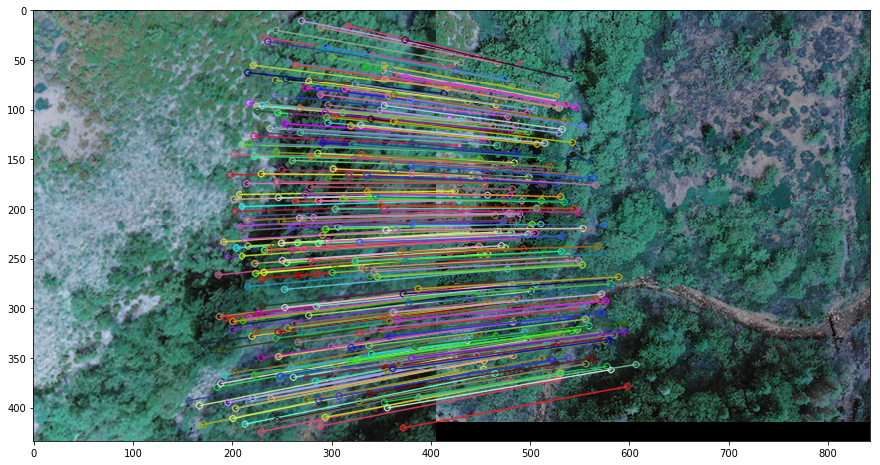
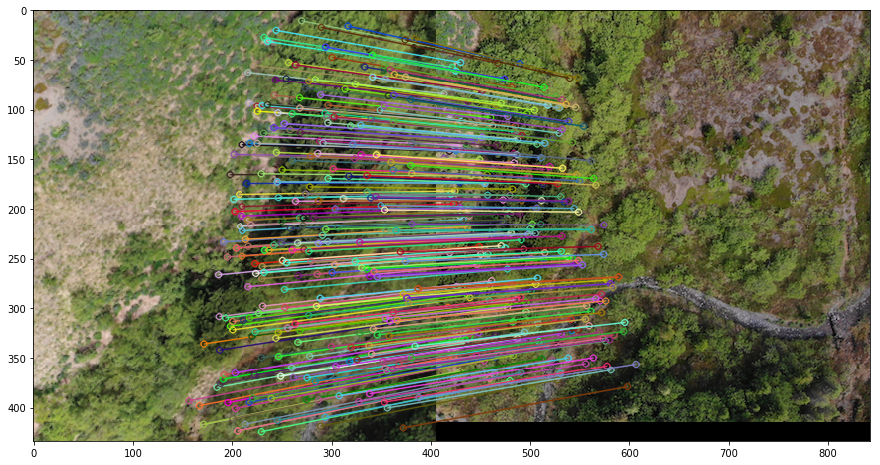
updated colors in image and image display

diff --git a/testscript2.py b/testscript2.py
@@ -27,14 +27,14 @@ from warp import warpImageBasic, warpImage
 
 def showImage(im, h, w):
     plt.figure(figsize = (h,w))
-    plt.imshow(im)
+    plt.imshow(cv2.cvtColor(im, cv2.COLOR_BGR2RGB))
     plt.show 
 
 #%% ===================== INITIAL IMAGE LOADING ===============================
 # read images from path
 # chance path and extention according to the images and type of images you want to test 
 images = []
-path = "testimages6"
+path = "final_images/simple_stitching_twisted"
 
 for f in os.listdir(path):
     ext = os.path.splitext(f)[1]
@@ -43,7 +43,10 @@ for f in os.listdir(path):
     images.append(cv2.imread(os.path.join(path,f)))
     
 image1 = images[0]
-image2 = images[1]
+image2 = images[3]
+
+showImage(image1, 8, 8)
+showImage(image2, 8, 8)
 
 #%% ===================== RESCALE OF IMAGES ===================================
 # =============================================================================
@@ -69,11 +72,13 @@ knnmatcher = cv2.BFMatcher(cv2.NORM_L2, crossCheck = False)
 raw = knnmatcher.knnMatch(descriptors0, descriptors1, 2)
 matches = []
 for m,n in raw:
-    if m.distance < n.distance * 0.7:
+    if m.distance < n.distance * 0.5:
         matches.append(m)
 src_pts = np.float32([keypoints0[m.queryIdx].pt for m in matches]).reshape(-1, 1, 2)
 dst_pts = np.float32([keypoints1[m.trainIdx].pt for m in matches]).reshape(-1, 1, 2)
 
+images_matches = cv2.drawMatches(image1,keypoints0,image2,keypoints1,matches, None, flags=2)
+showImage(images_matches, 15, 10)
 
 #%% =============== TEST OF RANSAC HOMOGRAPHY ESTIMATION ======================
 

diff --git a/knn2.py b/knn2.py
@@ -54,10 +54,9 @@ def isValidMatch(nf, ni):
 
 
 
-
 scaleImages = False
 images = []
-path = "final_images/simple_stitching_twisted"
+path = "final_images/simple_stitching"
 for f in os.listdir(path):
     ext = os.path.splitext(f)[1]
     if ext != ".png":
@@ -413,7 +412,7 @@ plt.imshow(canvas)
 crop = crop.astype(dtype=np.uint8)
 
 plt.figure(figsize = (12,12))
-plt.imshow(crop)
+plt.imshow(cv2.cvtColor(crop, cv2.COLOR_BGR2RGB))
 
 # plt.figure()
 # plt.imshow(cv2.imread('mountain.png'))
